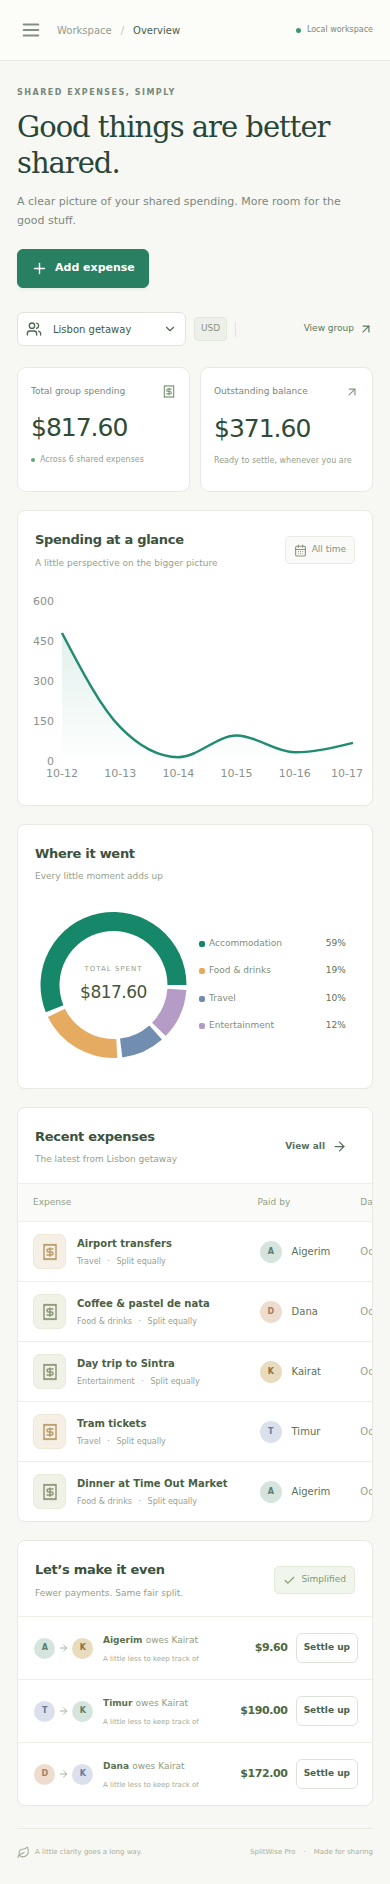
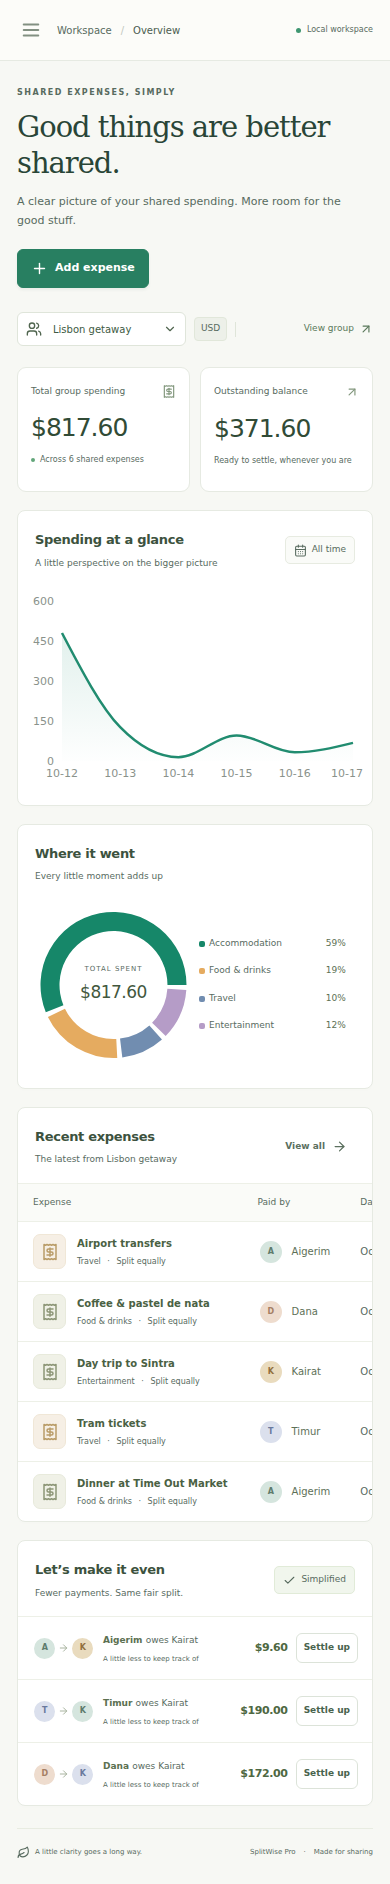
test: record independent final acceptance and browser regressions (#28, #29, #39–41)

diff --git a/frontend/e2e/integration.spec.ts b/frontend/e2e/integration.spec.ts
@@ -7,7 +7,7 @@ test('real SQLite browser workflow, shares, errors, refresh and mobile',async({p
  const add=async(title:string,amount:string,method:string,values:string[]=[])=>{await page.getByRole('button',{name:'Add expense',exact:true}).click();const d=page.getByRole('dialog');await d.getByLabel('What was it for?').fill(title);await d.getByLabel('Amount (USD)',{exact:true}).fill(amount);await d.getByLabel('Paid by').selectOption({label:'Alice'});await d.getByRole('button',{name:method,exact:true}).click();if(method!=='Equally')for(let i=0;i<3;i++)await d.getByLabel(`${['Alice','Bob','Carol'][i]} ${method==='Exact amounts'?'share':'percentage'}`).fill(values[i]);await d.getByRole('button',{name:'Add expense',exact:true}).click();await expect(d).toHaveCount(0);};
  await add('Uneven dollar','1.00','Equally');await add('Exact lunch','3.00','Exact amounts',['1','1','1']);await add('Percentage ride','10.00','Percentages',['50','25','25']);
  let expenses=await (await request.get(api+'/expenses')).json();expect(expenses).toHaveLength(3);for(const e of expenses)expect(e.shares.reduce((s:number,x:any)=>s+x.amount_minor,0)).toBe(e.amount_minor);expect(expenses.find((e:any)=>e.description==='Uneven dollar').shares.map((s:any)=>s.amount_minor).sort()).toEqual([33,33,34]);
- await page.getByRole('button',{name:'Edit Percentage ride'}).click();await page.getByLabel('What was it for?').fill('Edited ride');await page.getByRole('button',{name:'Save changes',exact:true}).click();await expect(page.getByRole('dialog')).toHaveCount(0);page.on('dialog',d=>d.accept());await page.getByRole('button',{name:'Delete Exact lunch'}).click();await expect(page.getByRole('button',{name:'Edit Exact lunch'})).toHaveCount(0);
+ await page.getByRole('button',{name:'Edit Percentage ride'}).click();await page.getByLabel('What was it for?').fill('Edited ride');await page.getByRole('button',{name:'Save changes',exact:true}).click();await expect(page.getByRole('dialog')).toHaveCount(0);page.once('dialog',d=>d.dismiss());await page.getByRole('button',{name:'Delete Exact lunch'}).click();await expect(page.getByRole('button',{name:'Edit Exact lunch'})).toBeVisible();page.once('dialog',d=>d.accept());await page.getByRole('button',{name:'Delete Exact lunch'}).click();await expect(page.getByRole('button',{name:'Edit Exact lunch'})).toHaveCount(0);
  const members=await (await request.get(api+'/members')).json();const a=members.find((m:any)=>m.name==='Alice').id,b=members.find((m:any)=>m.name==='Bob').id;
  await page.getByRole('link',{name:'Settlements',exact:true}).click();await page.getByRole('button',{name:'Record payment',exact:true}).first().click();await page.getByLabel('Who paid?').selectOption({label:'Bob'});await page.getByLabel('Who received?').selectOption({label:'Alice'});await page.getByLabel('Payment amount (USD)').fill('1.00');await page.getByLabel('Note (optional)').fill('Real partial');await page.getByRole('dialog').getByRole('button',{name:'Record payment',exact:true}).click();await expect(page.getByRole('dialog')).toHaveCount(0);await expect(page.getByRole('cell',{name:'Real partial'})).toBeVisible();
  const balance=await (await request.get(api+'/balances')).json();expect(balance.members.reduce((s:number,m:any)=>s+m.net_minor,0)).toBe(0);const analytics=await (await request.get(api+'/analytics')).json();expect(analytics.total_minor).toBe(1100);expect((await (await request.get(api+'/settlements')).json())[0]).toMatchObject({from_member_id:b,to_member_id:a,amount_minor:100});
@@ -15,7 +15,7 @@ test('real SQLite browser workflow, shares, errors, refresh and mobile',async({p
 });
 test('integrated group and member management, confirmation cancellation and protected records',async({page})=>{
  await page.goto('/groups');await page.getByRole('button',{name:'New group',exact:true}).click();await page.getByLabel('Group name').fill('Management QA');await page.getByLabel('Group currency').selectOption('KZT');await page.getByRole('button',{name:'Create group',exact:true}).click();await expect(page.getByRole('dialog')).toHaveCount(0);await page.getByRole('button',{name:/Management QA/}).click();await page.getByRole('button',{name:'Edit group',exact:true}).click();await expect(page.getByLabel('Group currency')).toBeDisabled();await page.getByLabel('Group name').fill('Renamed QA');await page.getByLabel('A little description').fill('Renamed persistent description');await page.getByRole('button',{name:'Save changes',exact:true}).click();await expect(page.getByRole('heading',{name:'Renamed QA',exact:true})).toBeVisible();await page.reload();await expect(page.getByRole('heading',{name:'Renamed QA',exact:true})).toBeVisible();await expect(page.getByText('Renamed persistent description',{exact:true})).toBeVisible();await expect(page.getByLabel('Active group').locator('option:checked')).toContainText('Renamed QA');await expect(page.getByText('KZT',{exact:true}).first()).toBeVisible();
- await page.getByRole('button',{name:'Add member',exact:true}).click();await page.getByLabel('Member name').fill('Temporary');await page.getByRole('dialog').getByRole('button',{name:'Add member',exact:true}).click();await expect(page.getByRole('dialog')).toHaveCount(0);page.once('dialog',d=>d.dismiss());await page.getByRole('button',{name:'Remove Temporary'}).click();await expect(page.getByRole('button',{name:'Remove Temporary'})).toBeVisible();page.once('dialog',d=>d.accept());await page.getByRole('button',{name:'Remove Temporary'}).click();await expect(page.getByRole('button',{name:'Remove Temporary'})).toHaveCount(0);page.once('dialog',d=>d.dismiss());await page.getByRole('button',{name:'Delete group',exact:true}).click();await expect(page.getByRole('heading',{name:'Renamed QA',exact:true})).toBeVisible();page.once('dialog',d=>d.accept());await page.getByRole('button',{name:'Delete group',exact:true}).click();await expect(page.getByRole('heading',{name:'Renamed QA',exact:true})).toHaveCount(0);await page.getByRole('link',{name:'My groups',exact:true}).click();await expect(page.getByRole('heading',{name:'My groups',exact:true})).toBeVisible();await expect(page.getByRole('button',{name:/Renamed QA/})).toHaveCount(0);
+ await page.getByRole('button',{name:'Add member',exact:true}).click();await page.getByLabel('Member name').fill('Temporary');await page.getByRole('dialog').getByRole('button',{name:'Add member',exact:true}).click();await expect(page.getByRole('dialog')).toHaveCount(0);page.once('dialog',d=>d.dismiss());await page.getByRole('button',{name:'Remove Temporary'}).click();await expect(page.getByRole('button',{name:'Remove Temporary'})).toBeVisible();page.once('dialog',d=>d.accept());await page.getByRole('button',{name:'Remove Temporary'}).click();await expect(page.getByRole('button',{name:'Remove Temporary'})).toHaveCount(0);page.once('dialog',d=>d.dismiss());await page.getByRole('button',{name:'Delete group',exact:true}).click();await expect(page.getByRole('heading',{name:'Renamed QA',exact:true})).toBeVisible();page.once('dialog',d=>d.accept());await page.getByRole('button',{name:'Delete group',exact:true}).click();await expect(page.getByRole('heading',{name:'Renamed QA',exact:true})).toHaveCount(0);await page.getByRole('link',{name:/^My groups/}).click();await expect(page.getByRole('heading',{name:'My groups',exact:true})).toBeVisible();await expect(page.getByRole('button',{name:/Renamed QA/})).toHaveCount(0);
  await page.getByRole('button',{name:/Integrated QA trip/}).click();page.once('dialog',d=>d.accept());await page.getByRole('button',{name:'Remove Alice'}).click();await expect(page.getByRole('alert')).toContainText('referenced');await expect(page.getByRole('button',{name:'Remove Alice'})).toBeVisible();
 });
 test('real service loading and recoverable HTTP error states',async({page})=>{

diff --git a/_docs/qa/final.md b/_docs/qa/final.md
@@ -1,0 +1,360 @@
+# Independent final local acceptance
+
+**Local runtime verdict: PASS.** The independent QA agent reran actual tests against the final engineer handoffs. Hosted CI, clean remote publication and final issue-state audit remain separate gates; no green CI or all-closed claim is made in this revision.
+
+## Actual commands and results
+
+| Command | Executed result |
+|---|---|
+| `.venv/bin/python -m pytest backend/tests -q` |54 passed in 6.81 s; includes actual Uvicorn process restart, isolated migrations, transactions / foreign keys and optional demo refusal. One upstream Starlette/httpx deprecation warning. |
+| `.venv/bin/python -m openapi_spec_validator openapi.yml` |OK, exit 0. |
+| `npm --prefix frontend test` |27 passed across 4 files in 5.82 s. |
+| `npm --prefix frontend run build` |exit 0; 2,285 modules; 836.10 kB JavaScript / 254.20 kB gzip, nonfatal chunk size warning. |
+| `QA_CHROMIUM_PATH=/tmp/chromium npx playwright test` from frontend |8 passed in 24.2 s: mock lifecycle, desktop / mobile, feedback / profile, eight-route containment, deep links / history, keyboard focus and contrast. |
+| `QA_CHROMIUM_PATH=/tmp/chromium npx playwright test --config playwright.integration.config.ts` from frontend |3 passed in 19.2 s: real migrated SQLite workflows, group rename / description / reload, cancellation / confirmation / protection, and recoverable 503 / loading states. |
+| `/tmp/splitwise-clean-lock/bin/python -m pip check` plus independent requirement/version comparison |No broken requirements; all 41 active locked packages match fresh interpreter; Windows-only Colorama pinned; Black excluded. DevOps separately ran 54 tests in this fresh environment. |
+
+The final test-runner source is frozen after the above three-test integration rerun. The API browser fixture runs Uvicorn in the same Python process, avoiding orphan-child shutdown; temporary databases are migrated and isolated. Runtime provisioning and original failures remain in the earlier QA records. Test harness mistakes (premature asynchronous label lookup, a reused Response fixture, and an exact label omitting a dynamic badge) were corrected and are not represented as product bugs.
+
+Additional independent actual API checks: both local Vite origins pass CORS preflight; a foreign origin is rejected with 400 and no allow-origin header; an exact zero share is accepted; zero, negative, fractional and boolean settlement amounts receive 422 without mutation; editing an expense from 1,001 to 900 minor units changes member balances to 600 / -300 / -300; recording all deterministic suggestions settles every balance to zero; settlements do not inflate spending; expense deletion resets spending and preserves the zero-sum ledger. All 19 required documents exist and are nonempty. These checks used a memory TestClient in addition to the common memory / SQLite suite.
+
+Screenshots: `_docs/screenshots/mock-desktop.png`, `mock-mobile.png`, `integrated-desktop.png`, `integrated-mobile.png`. The real SQLite overview shows 11.00 after partial repayment. Screenshots are actual browser captures after chart animation.
+
+## Acceptance criteria audit
+
+QA read the actual live GitHub issue bodies preserved in `current-issue-criteria.md` and the PM-groomed #40 / #41 comments. PASS below applies to each listed criterion, with the evidence following it. Issues #2, #30 and #31 retain explicit remote/control gates. Post-MVP issues #32 / #33 remain intentionally open.
+
+### Issue #1 — PASS
+
+- **PASS:** Scope and role handoffs documented.
+- **PASS:** Money rounding and settlement rules specified.
+
+Evidence: Planning files and planning.md specify scope, separated agent handoffs, integer rounding and settlement bounds.
+
+### Issue #2 — PENDING remote/control gate
+
+- **PENDING remote/control gate:** Verify clean checkout installs through an executed acceptance check.
+- **PENDING remote/control gate:** Verify local commands documented through an executed acceptance check.
+- **PENDING remote/control gate:** Verify no StudyFlow changes through an executed acceptance check.
+
+Evidence: All 41 active pinned packages match a fresh isolated Python installation, and pip check is clean. A clean remote checkout and npm installation must be confirmed from the hosted run before final closure.
+
+### Issue #3 — PASS
+
+- **PASS:** Verify required planning/role files exist through an executed acceptance check.
+- **PASS:** Verify real excerpts distinguished from PM analysis through an executed acceptance check.
+
+Evidence: All 19 required documents exist and are nonempty. User excerpts are explicitly distinguished from PM analysis; no invented dialogue is presented as history.
+
+### Issue #4 — PASS
+
+- **PASS:** Verify desktop sidebar/mobile navigation through an executed acceptance check.
+- **PASS:** Verify visible focus through an executed acceptance check.
+- **PASS:** Verify readable contrast through an executed acceptance check.
+- **PASS:** Verify documented states through an executed acceptance check.
+
+Evidence: Desktop and mobile screenshots, eight routes at 390 px, keyboard Enter / Tab / Escape, and sampled semantic text contrast from 5.345 to 7.044:1. Interaction states are documented.
+
+### Issue #5 — PASS
+
+- **PASS:** Verify typed async CRUD through an executed acceptance check.
+- **PASS:** Verify deterministic seed through an executed acceptance check.
+- **PASS:** Verify mock changes reflected through an executed acceptance check.
+- **PASS:** Verify no API dependency through an executed acceptance check.
+
+Evidence: Six mock service tests and eight independent browser tests execute deterministic seeded CRUD without an API server.
+
+### Issue #6 — PASS
+
+- **PASS:** Verify currency totals kept separate through an executed acceptance check.
+- **PASS:** Verify activity links through an executed acceptance check.
+- **PASS:** Verify loading/error/empty states through an executed acceptance check.
+
+Evidence: Actual mock and SQLite dashboard screenshots; group-scoped queries preserve currency context. Loading, empty onboarding, a 503 alert and Try again recovery were exercised.
+
+### Issue #7 — PASS
+
+- **PASS:** Verify create/rename persist in service through an executed acceptance check.
+- **PASS:** Verify required name/currency through an executed acceptance check.
+- **PASS:** Verify navigable list through an executed acceptance check.
+
+Evidence: Actual KZT group creation, name and description rename through PUT, immutable currency, refresh retention and list navigation. Adapter and form payload regressions pass.
+
+### Issue #8 — PASS
+
+- **PASS:** Verify cancel preserves data through an executed acceptance check.
+- **PASS:** Verify confirm removes group and descendants through an executed acceptance check.
+- **PASS:** Verify empty detail state through an executed acceptance check.
+
+Evidence: Actual group detail and empty-member state; cancellation and confirmed deletion; list absence afterwards. Shared API tests cover descendant cascades and rollback.
+
+### Issue #9 — PASS
+
+- **PASS:** Verify names validated through an executed acceptance check.
+- **PASS:** Verify payer/share/settlement references block removal through an executed acceptance check.
+- **PASS:** Verify clear errors through an executed acceptance check.
+
+Evidence: Actual add / remove / cancel and referenced-member rejection with an alert. Unicode casefold uniqueness is tested atomically across memory, SQLite and mock services.
+
+### Issue #10 — PASS
+
+- **PASS:** Verify group members only through an executed acceptance check.
+- **PASS:** Verify valid date/category through an executed acceptance check.
+- **PASS:** Verify participant selection through an executed acceptance check.
+- **PASS:** Verify sorted history through an executed acceptance check.
+
+Evidence: Real expenses exercise payer, category, date, participants and all split methods. Shared API tests reject foreign members and invalid dates, and verify history filters.
+
+### Issue #11 — PASS
+
+- **PASS:** Verify edits recalculate balances through an executed acceptance check.
+- **PASS:** Verify cancel deletion safe through an executed acceptance check.
+- **PASS:** Verify deletion updates all summaries through an executed acceptance check.
+
+Evidence: The real browser checks editing, deletion cancellation and confirmed deletion. An additional API check changes 1,001 to 900 minor units, verifies balances 600 / -300 / -300, then verifies deletion resets spending and preserves zero-sum balances.
+
+### Issue #12 — PASS
+
+- **PASS:** Verify shares sum to amount through an executed acceptance check.
+- **PASS:** Verify 100 cents/3 yields deterministic 34/33/33 through an executed acceptance check.
+- **PASS:** Verify no float money through an executed acceptance check.
+
+Evidence: Actual API shares for 100 minor units among three members are 33 / 33 / 34. Stable-ID tie tests and 250 seeded randomized allocation cases preserve integer totals.
+
+### Issue #13 — PASS
+
+- **PASS:** Verify reject sum mismatch/negative/duplicate/nonmember through an executed acceptance check.
+- **PASS:** Verify support zero shares through an executed acceptance check.
+
+Evidence: The browser rejects a mismatched exact total and accepts correction. API checks cover invalid amounts and members; a separate executed zero-share case yields 0 / 100. Participant record keys are unique.
+
+### Issue #14 — PASS
+
+- **PASS:** Verify percentages sum 100% through an executed acceptance check.
+- **PASS:** Verify max 2 decimals through an executed acceptance check.
+- **PASS:** Verify exact cent sum through an executed acceptance check.
+- **PASS:** Verify deterministic ID ties through an executed acceptance check.
+
+Evidence: The browser records a 10.00 expense at 50 / 25 / 25 percent. Integer basis points, invalid totals and fractional basis points are checked; deterministic allocation preserves the cent total.
+
+### Issue #15 — PASS
+
+- **PASS:** Verify net sum zero through an executed acceptance check.
+- **PASS:** Verify deterministic sorted pairing through an executed acceptance check.
+- **PASS:** Verify suggestions settle all outstanding debt through an executed acceptance check.
+
+Evidence: Additional API checks verify recalculation after an amount edit, repeated deterministic suggestions, and complete settlement of every suggested debt to zero. Partial repayment and deletion preserve conservation.
+
+### Issue #16 — PASS
+
+- **PASS:** Verify positive integer amount through an executed acceptance check.
+- **PASS:** Verify distinct members through an executed acceptance check.
+- **PASS:** Verify debtor negative/creditor positive through an executed acceptance check.
+- **PASS:** Verify reject overpayment through an executed acceptance check.
+
+Evidence: Actual partial Bob-to-Alice repayment of 100 minor units appears in history after refresh. API checks reject overpayment, reverse direction, self-transfer, foreign members and invalid numeric values without mutation.
+
+### Issue #17 — PASS
+
+- **PASS:** Verify settlement excluded from spending through an executed acceptance check.
+- **PASS:** Verify each currency separated through an executed acceptance check.
+- **PASS:** Verify useful charts and empty states through an executed acceptance check.
+
+Evidence: Real SQLite analytics show 1,100 minor units after a partial settlement. Category, timeline and contribution assertions pass; settlements are excluded from spending and currency remains group-scoped.
+
+### Issue #18 — PASS
+
+- **PASS:** Verify all frontend operations described through an executed acceptance check.
+- **PASS:** Verify schemas/examples/errors/filters through an executed acceptance check.
+- **PASS:** Verify validation command succeeds through an executed acceptance check.
+
+Evidence: The source OpenAPI validator passes. Frontend service methods and API routes were reviewed against the contract; the contract QA record covers 16 operations and 13 response-schema checks.
+
+### Issue #19 — PASS
+
+- **PASS:** Verify health and MVP routes through an executed acceptance check.
+- **PASS:** Verify injectable memory repository through an executed acceptance check.
+- **PASS:** Verify testClient success/validation cases through an executed acceptance check.
+
+Evidence: Memory mode remains available. The common 54-test suite exercises CRUD, validation and membership rules in both memory and migrated SQLite repositories.
+
+### Issue #20 — PASS
+
+- **PASS:** Verify sQLAlchemy 2 models through an executed acceptance check.
+- **PASS:** Verify integer money through an executed acceptance check.
+- **PASS:** Verify foreign keys through an executed acceptance check.
+- **PASS:** Verify matching repository interface through an executed acceptance check.
+
+Evidence: Normalized group, member, expense, share and settlement ORM models were reviewed; the shared API suite, foreign-key failure checks and repository-boundary tests pass.
+
+### Issue #21 — PASS
+
+- **PASS:** Verify upgrade fresh database through an executed acceptance check.
+- **PASS:** Verify downgrade/upgrade verified through an executed acceptance check.
+- **PASS:** Verify fK enabled through an executed acceptance check.
+- **PASS:** Verify databases ignored through an executed acceptance check.
+
+Evidence: Migration upgrade / downgrade, metadata parity and fresh temporary databases are executed by the passing backend suite.
+
+### Issue #22 — PASS
+
+- **PASS:** Verify atomic expenses/shares through an executed acceptance check.
+- **PASS:** Verify isolated tests through an executed acceptance check.
+- **PASS:** Verify restart preserves data through an executed acceptance check.
+- **PASS:** Verify relationship protection through an executed acceptance check.
+
+Evidence: The suite actually stops and restarts Uvicorn and checks retained ledger data. Failed share and group-delete transactions roll back; foreign keys and isolated databases are tested.
+
+### Issue #23 — PASS
+
+- **PASS:** Verify real API default through an executed acceptance check.
+- **PASS:** Verify mock mode retained through an executed acceptance check.
+- **PASS:** Verify invalidation/loading/errors through an executed acceptance check.
+- **PASS:** Verify configured local origins through an executed acceptance check.
+
+Evidence: Default API and explicit mock modes both execute in browser suites. Loading, invalidation and 503 recovery are covered. Both local CORS origins pass preflight; a foreign origin is rejected.
+
+### Issue #24 — PASS
+
+- **PASS:** Verify 404 unknown resource through an executed acceptance check.
+- **PASS:** Verify 422 malformed input through an executed acceptance check.
+- **PASS:** Verify conflict responses through an executed acceptance check.
+- **PASS:** Verify no stack leaks through an executed acceptance check.
+
+Evidence: API tests and extra requests confirm 404, 422 and 409 string-detail responses, strict input rules and atomic failure without stack-trace responses. Active-dialog alerts work in the browser.
+
+### Issue #25 — PASS
+
+- **PASS:** Verify all split methods tested through an executed acceptance check.
+- **PASS:** Verify tie cases through an executed acceptance check.
+- **PASS:** Verify net sum zero through an executed acceptance check.
+- **PASS:** Verify settlement conservation through an executed acceptance check.
+- **PASS:** Verify invalid inputs through an executed acceptance check.
+
+Evidence: All split methods, stable ties and 250 seeded randomized allocation cases pass. Additional API execution records all suggested settlements and reaches zero balances.
+
+### Issue #26 — PASS
+
+- **PASS:** Verify create/edit/delete/group cascade through an executed acceptance check.
+- **PASS:** Verify rollback through an executed acceptance check.
+- **PASS:** Verify invalid member references through an executed acceptance check.
+- **PASS:** Verify restart verified through an executed acceptance check.
+
+Evidence: All 54 backend tests pass, including shared repository CRUD, cascade, rollback, foreign members and an actual backend process restart.
+
+### Issue #27 — PASS
+
+- **PASS:** Verify validation prevents bad submit through an executed acceptance check.
+- **PASS:** Verify mock operations through an executed acceptance check.
+- **PASS:** Verify aPI error/loading rendering through an executed acceptance check.
+- **PASS:** Verify tests execute through an executed acceptance check.
+
+Evidence: All 27 frontend tests pass across four files, covering forms, exact validation, mock casefold rules, HTTP adapter behavior, loading / error / retry and dialog focus.
+
+### Issue #28 — PASS
+
+- **PASS:** Verify create group/members through an executed acceptance check.
+- **PASS:** Verify all split modes through an executed acceptance check.
+- **PASS:** Verify edit/delete through an executed acceptance check.
+- **PASS:** Verify partial settlement through an executed acceptance check.
+- **PASS:** Verify refresh through an executed acceptance check.
+- **PASS:** Verify assertions through an executed acceptance check.
+
+Evidence: The real SQLite suite passes three tests in 19.2 s: groups, members, splits, editing, cancellation / deletion, partial repayment, refresh, invariants and mobile layout. The mock suite passes eight tests in 24.2 s.
+
+### Issue #29 — PASS
+
+- **PASS:** Verify no horizontal overflow through an executed acceptance check.
+- **PASS:** Verify labeled forms through an executed acceptance check.
+- **PASS:** Verify focusable controls through an executed acceptance check.
+- **PASS:** Verify dialog escape/focus behavior through an executed acceptance check.
+
+Evidence: Eight routes fit a 390 px viewport. Accessible table actions remain available through internal scrolling. Labels, initial focus, ten Tab steps, Escape and focus return are checked; RTL also covers a removed opener.
+
+### Issue #30 — PENDING remote/control gate
+
+- **PENDING remote/control gate:** Verify workflow installs pinned dependencies through an executed acceptance check.
+- **PENDING remote/control gate:** Verify validates OpenAPI through an executed acceptance check.
+- **PENDING remote/control gate:** Verify real run checked before final pass through an executed acceptance check.
+
+Evidence: The workflow installs the exact Python graph and npm lock, then runs contract, backend, frontend, build and both browser suites. The full actual hosted conclusion remains a separate acceptance gate.
+
+### Issue #31 — PENDING remote/control gate
+
+- **PENDING remote/control gate:** Verify exact commands/results and screenshots recorded through an executed acceptance check.
+- **PENDING remote/control gate:** Verify issues audited through an executed acceptance check.
+- **PENDING remote/control gate:** Verify limitations explicit through an executed acceptance check.
+
+Evidence: This report records actual commands, results, screenshots and criterion mappings. Final submission metadata, issue states and full hosted CI must be checked before overall closure.
+
+### Issue #34 — PASS
+
+- **PASS:** At 390px document.scrollWidth <= viewport width on all main screens.
+- **PASS:** Navigation and expense forms remain reachable.
+- **PASS:** Desktop layout retains readable charts and table.
+
+Evidence: The original 498 px overflow at a 390 px viewport was reproduced. The scoped positioning fix passes eight-route width, internal table scrolling and accessible action checks.
+
+### Issue #35 — PASS
+
+- **PASS:** Duplicate member failure shows visible error styling and text.
+- **PASS:** Error is announced inside the active dialog via role alert.
+- **PASS:** Successful mutations retain success feedback.
+
+Evidence: A duplicate-member error is exposed as an alert inside the active dialog; input is preserved and correction succeeds. Mock and integrated browser regressions pass.
+
+### Issue #36 — PASS
+
+- **PASS:** Saved display name updates the sidebar profile.
+- **PASS:** It remains after page refresh.
+- **PASS:** Empty names show validation and retain last valid value.
+
+Evidence: Saving QA Person updates the profile and initials immediately and survives navigation and reload. Whitespace cannot replace a valid preference.
+
+### Issue #37 — PASS
+
+- **PASS:** Same-group trimmed casefold duplicate names return422 and do not add a row.
+- **PASS:** Distinct groups may each have member Alice.
+- **PASS:** Memory and SQLite repositories enforce equivalent behavior.
+- **PASS:** Integrated UI shows duplicate failure inside member dialog.
+
+Evidence: Trimmed Unicode casefold duplicates receive 422 without mutation, while other groups may reuse a name. Memory, SQLite, mock, engine restart and integrated dialog checks all pass.
+
+### Issue #38 — PASS
+
+- **PASS:** Rename updates group heading and list through real SQLite API.
+- **PASS:** Description changes persist after refresh.
+- **PASS:** Update request contains name and description only; currency remains immutable.
+- **PASS:** Creation still sends selected currency.
+
+Evidence: The real KZT group retains renamed name, description and currency after refresh. Both form and adapter omit currency from update payloads while creation retains it.
+
+### Issue #39 — PASS
+
+- **PASS:** Fresh direct /groups/g2 renders The apartment and matching details.
+- **PASS:** Reload and back/forward keep URL and selected group consistent.
+- **PASS:** Group selector on detail page updates URL and group together.
+- **PASS:** Missing/deleted group gracefully falls back without redirect loops.
+
+Evidence: Actual non-first direct link, reload, selector URL, browser Back / Forward and missing-group fallback pass. RTL covers an empty workspace; SQLite browser refresh uses real dynamic IDs.
+
+### Issue #40 — PASS
+
+- **PASS:** Escape/cancel/close restore the actual connected visible opener.
+- **PASS:** Mutation closure restores a surviving control or sensible visible fallback if opener disappeared.
+- **PASS:** Initial focus and Tab containment are preserved.
+
+Evidence: Actual keyboard opening sets initial focus, ten Tab presses remain trapped, and Escape returns focus to the opener. Two RTL tests cover Escape / Close / Save and a disconnected opener.
+
+### Issue #41 — PASS
+
+- **PASS:** Small semantic subtitle/stat/detail/sidebar text reaches4.5:1 against actual surface.
+- **PASS:** Essential labels, hierarchy, layout and palette remain present; no hiding of low-contrast text.
+
+Evidence: Measured subtitle contrast is 5.345:1; card labels / details 5.701; table headers 5.489; sidebar / profile 6.200–7.044; dialog description 5.701. Every sampled small semantic label exceeds 4.5:1; no comprehensive WCAG certification is claimed.
+
+## Practical limits
+
+The application uses one local workspace and one backend worker, with no authentication, real payments or cloud hosting. All supported currencies have two decimal places; groups do not convert currencies. Settlement suggestions are deterministic and do not guarantee a globally minimum transfer count. The frontend bundle-size warning and upstream test-client deprecation warning do not fail the checks. Keyboard, mobile and key semantic text contrast were tested; this is not certification against every WCAG criterion. The optional demo command is explicit and refuses an existing workspace. StudyFlow was not modified; all writes target this new repository.
+
+Final root publication must record the source commit, actual GitHub Actions conclusion and issue closure counts before marking the submission complete.

diff --git a/_docs/qa/bugs-39-41.md b/_docs/qa/bugs-39-41.md
@@ -17,3 +17,11 @@ Actual keyboard workflow: focus New group button; Enter opens dialog; Group name
 Actual browser computed .page-subtitle text: rgb(124,136,127), background rgb(247,248,244), 11px normal text. WCAG relative-luminance contrast formula yielded3.463083619543036:1, below4.5:1. The failing regression exited1 (one test failed836ms). Similar pale semantic labels were flagged for scoped engineer review. The regression checks small semantic dashboard, table, sidebar/profile and dialog helper text; it excludes decorative chart strokes, borders and disabled controls.
 
 Corrected #40/#41 verification is pending engineer handoff at this revision. No corrected ratio or final PASS is invented here.
+
+## Final corrected verification
+
+After PM-groomed engineer handoff, full mock Playwright8/8 passed24.2s. #40 original keyboard workflow now returns focus to New group after Escape while preserving initialfocus and ten-Tab containment. Frontend27/27 includes two dialog tests for Escape/Close/Save plus disconnected-opener fallback.
+
+#41 actual corrected ratios: subtitle rgb(88,107,95) on rgb(247,248,244) =5.345292:1; card labels/details onwhite =5.701465:1; tableheaders on rgb(250,251,248) =5.489461:1; sidebar/profile rgb(165,185,175) againstnavy =7.044110:1 andsidebar-note =6.199750:1; dialogdescription onwhite =5.701465:1. All sampled smallsemantictext passes4.5:1. No claim of comprehensive WCAGcertification is made.
+
+Final realSQLite integration3/3 passed19.2s, including renamedKZTgroup's name/description/currency afterreload, group/member cancel/confirm deletion/referenceprotection, expense cancel/confirmdelete and actual partialsettlement/analytics/refresh/mobile. Source38/39criteria now have fullpersistent-UI coverage.
